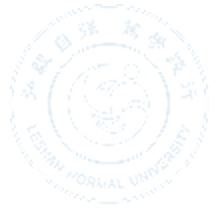
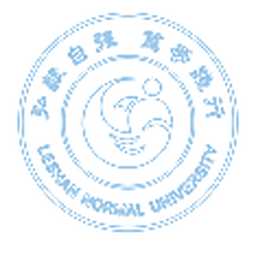
feat(ui): 顶栏改为校徽加校名锁，避免糊图

diff --git a/app/static/styles.css b/app/static/styles.css
@@ -28,10 +28,31 @@ body {
 }
 body { position: relative; }
 .logo {
-  height: 72px; width: 72px; object-fit: contain; flex-shrink: 0;
+  height: 88px; width: 88px; object-fit: contain; flex-shrink: 0;
+  background: #fff;
 }
-h1 { margin: 0; font-size: 22px; line-height: 1.3; color: var(--blue); font-family: SimSun, serif; }
-.top p, .muted { margin: 4px 0 0; color: #666; font-size: 13px; }
+.brand { min-width: 0; }
+.school {
+  margin: 0;
+  font: 700 30px/1.15 SimSun, "Songti SC", "Noto Serif SC", serif;
+  letter-spacing: 0.12em;
+  color: var(--blue);
+}
+.school-en {
+  margin: 2px 0 0;
+  font: 700 12px/1.2 "Times New Roman", Times, serif;
+  letter-spacing: 0.18em;
+  color: var(--blue);
+  text-transform: uppercase;
+}
+h1 {
+  margin: 8px 0 0;
+  font-size: 16px;
+  line-height: 1.3;
+  color: #444;
+  font-weight: 700;
+}
+.muted { margin: 4px 0 0; color: #666; font-size: 13px; }
 .layout {
   max-width: 1080px; margin: 0 auto; padding: 20px;
   display: grid; grid-template-columns: 1fr 1fr; gap: 16px;
@@ -95,7 +116,8 @@ footer { text-align: center; color: #7a7a7a; font-size: 12px; padding: 8px 16px 
 }
 @media (max-width: 860px) {
   .layout, .langs, .steps { grid-template-columns: 1fr; }
-  .logo { height: 56px; width: 56px; }
+  .logo { height: 64px; width: 64px; }
+  .school { font-size: 22px; letter-spacing: 0.06em; }
 }
 
 .think { margin: 8px 0 12px; background: #f7fbff; border: 1px solid #d5e6f5; border-radius: 10px; padding: 8px 12px; }

diff --git a/app/static/index.html b/app/static/index.html
@@ -8,10 +8,11 @@
 </head>
 <body>
   <header class="top">
-    <img class="logo" src="/brand/badge.png" alt="乐山师范学院">
-    <div>
+    <img class="logo" src="/brand/badge.png?v=3" alt="乐山师范学院校徽">
+    <div class="brand">
+      <p class="school">樂山師範學院</p>
+      <p class="school-en">LESHAN NORMAL UNIVERSITY</p>
       <h1>乐山师范多语言智能解说</h1>
-      <p>识图讲解 · 七语 · 专名锁定</p>
     </div>
   </header>
   <main class="layout">
